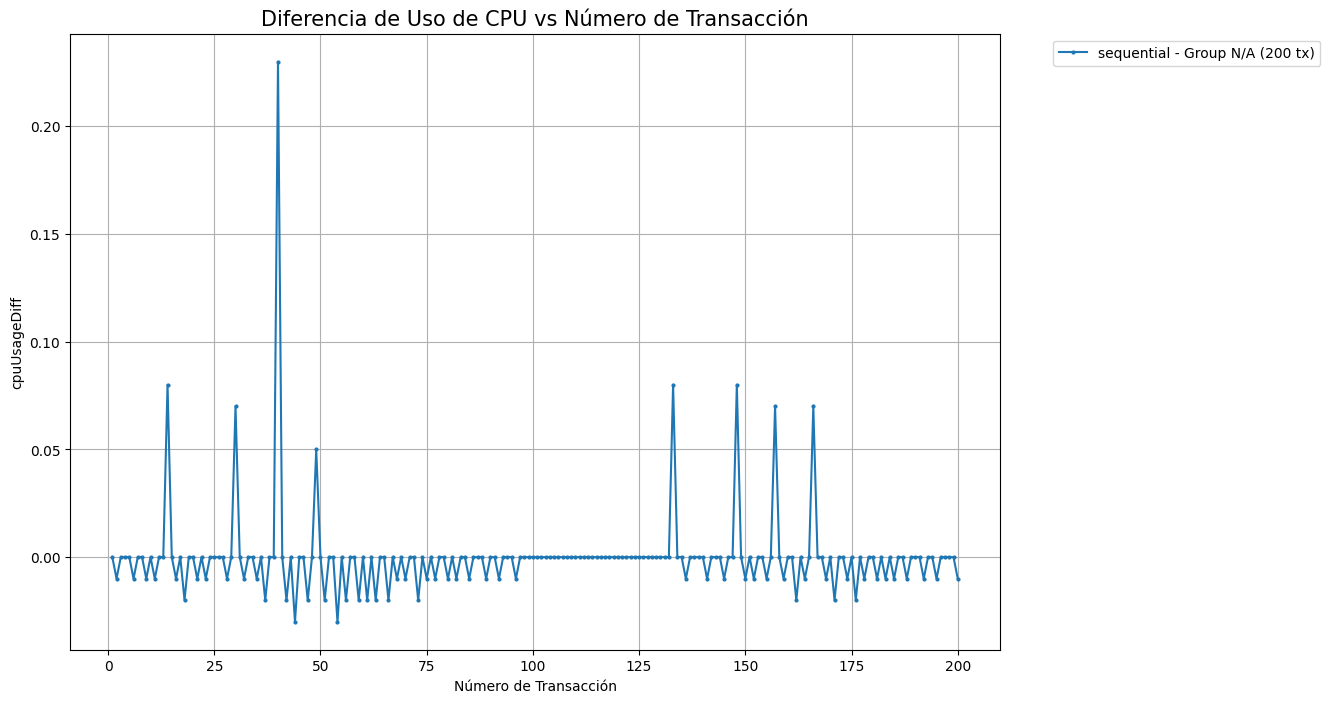
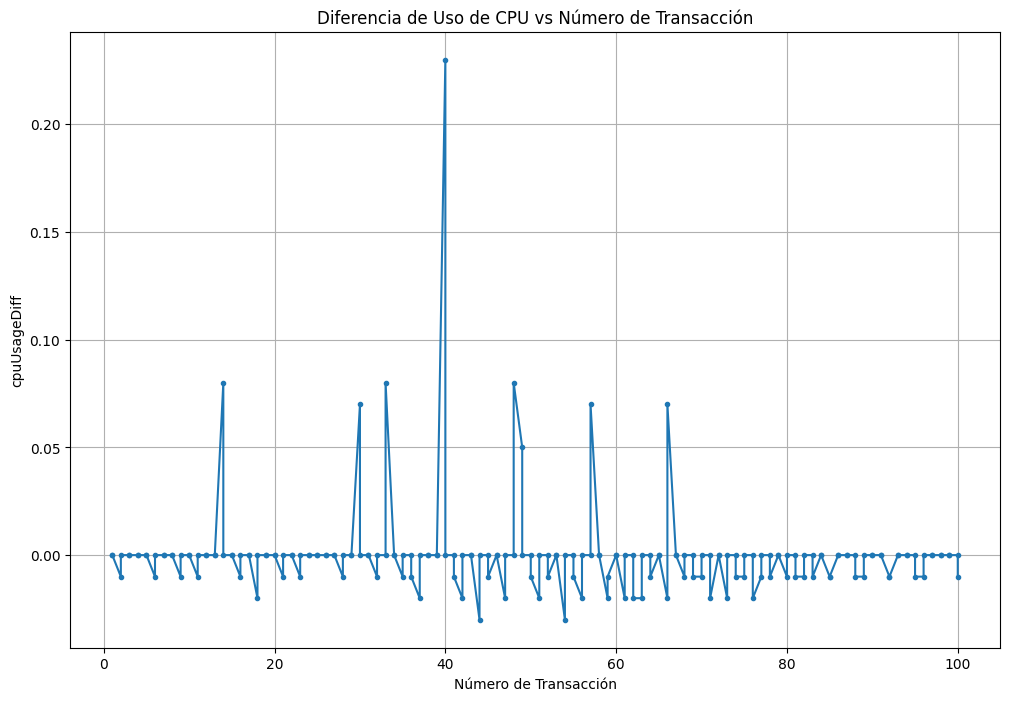
Gráfico el plot_metric_vs_transaction

diff --git a/API/graphs/graph_maker.py b/API/graphs/graph_maker.py
@@ -222,83 +222,34 @@ def plot_metric_vs_transaction(data, metric, title):
     if not data:
         print(f"No hay datos para graficar {metric}")
         return
-        
+
     plt.figure(figsize=(12, 8))
-    
-    # Validar que la métrica existe en los datos
-    if not any(metric in entry and entry[metric] is not None for entry in data):
+
+    # Filtrar datos válidos
+    valid_data = [entry for entry in data if entry.get(metric) is not None and entry.get('requestNumber') is not None]
+    if not valid_data:
         print(f"No se encontraron valores válidos para la métrica {metric}")
         return
-    
-    # Agrupar por tipo de prueba y número total de transacciones
-    test_groups = {}
-    print(f"Procesando {len(data)} entradas de datos")
-    print(f"Ejemplo de data 1: {data[0]}")
-    for entry in data:
-        key = (entry['testType'], entry['totalTransactions'])
-        if key not in test_groups:
-            test_groups[key] = []
-        test_groups[key].append(entry)
-    print(f"Grupos de prueba encontrados: {len(test_groups)}")
-    # Plotear cada tipo de test
-    for (test_type, total_tx), entries in test_groups.items():
-        print("Test type", test_type)
-        # Organizar las entradas por número de solicitud
-        request_groups = {}
-        for entry in entries:
-            # Validar que tengamos los campos necesarios
-            if entry.get('requestNumber') is not None and entry.get('transactionSuccess') == 'Yes':
-                request_num = int(entry.get('requestNumber'))
-                if request_num not in request_groups:
-                    request_groups[request_num] = []
-                # Asegurar que el valor del metric existe y es válido
-                if entry.get(metric) is not None:
-                    try:
-                        request_groups[request_num].append(float(entry[metric]))
-                    except ValueError:
-                        print(f"Valor no válido para metric en transacción #{request_num}")
-                        continue
-        
-        # Calcular promedios por número de solicitud
-        transaction_numbers = sorted(request_groups.keys())
-        metric_values = []
-        print(f"Procesando {len(transaction_numbers)} transacciones para {test_type} - {total_tx} tx")
-        for num in transaction_numbers:
-            if request_groups[num]:  # VEerificar que hay valores para promediar
-                metric_values.append(mean(request_groups[num]))
-            else:
-                print(f"Advertencia: No hay valores válidos para la transacción #{num}")
-        print("Promedios calculados:", metric_values)
-        if transaction_numbers and metric_values:  # Verificar que hay datos para graficar
-            label = f'{test_type} - {total_tx} tx'
-            plt.plot(transaction_numbers, metric_values, label=label, marker='o', markersize=2)
-            print(f"Graficando {len(transaction_numbers)} puntos promediados para {label}")
-            
-            # Imprimir algunos detalles para verificación
-            for num in transaction_numbers:
-                values = request_groups[num]
-                if values:
-                    print(f"{test_type} - Transacción #{num}: {len(values)} valores, promedio: {mean(values):.2f}")
-        else:
-            print(f"No hay datos válidos para graficar {test_type} - {total_tx} tx")
 
+    # Ordenar los datos por número de transacción
+    valid_data.sort(key=lambda x: int(x['requestNumber']))
+    transaction_numbers = [int(entry['requestNumber']) for entry in valid_data]
+    metric_values = [float(entry[metric]) for entry in valid_data]
+
+    # Plotear los datos
+    plt.plot(transaction_numbers, metric_values, marker='o', markersize=3)
     plt.xlabel('Número de Transacción')
-    plt.ylabel(f'-{metric} (Promedio)')
-    plt.title(title, fontsize=15)
-    plt.legend(bbox_to_anchor=(1.05, 1), loc='upper left')
+    plt.ylabel(metric)
+    plt.title(title)
     plt.grid(True)
-    
+
     try:
-        plt.savefig(f'{metric}_vs_transaction_avg.png', bbox_inches='tight')
-        print(f"Gráfica guardada: {metric}_vs_transaction_avg.png")
+        plt.savefig(f'{metric}_vs_transaction.png', bbox_inches='tight')
+        print(f"Gráfica guardada: {metric}_vs_transaction.png")
     except Exception as e:
         print(f"Error guardando la gráfica {metric}: {str(e)}")
-    
-    plt.close()
 
-    # Agregar información sobre datos procesados
-    if not any(len(request_groups) > 0 for request_groups in test_groups.values()):
-        print(f"No se encontraron grupos de prueba válidos para {metric}")
+    plt.close()
 
 def plot_transaction_cost_vs_length(data):
     plt.figure(figsize=(20, 15))  # Aumentar el tamaño de la figura
